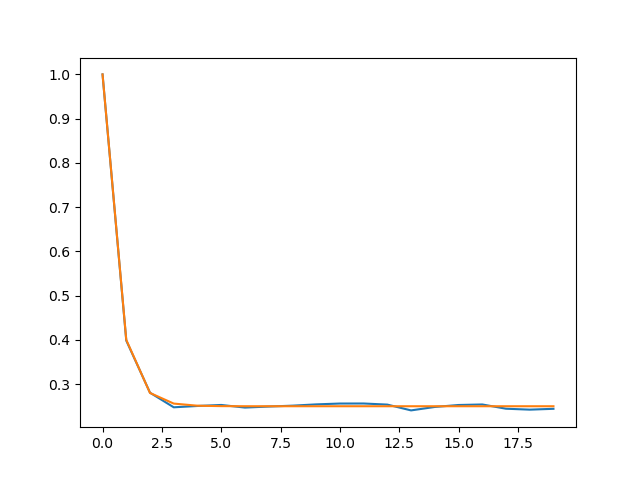
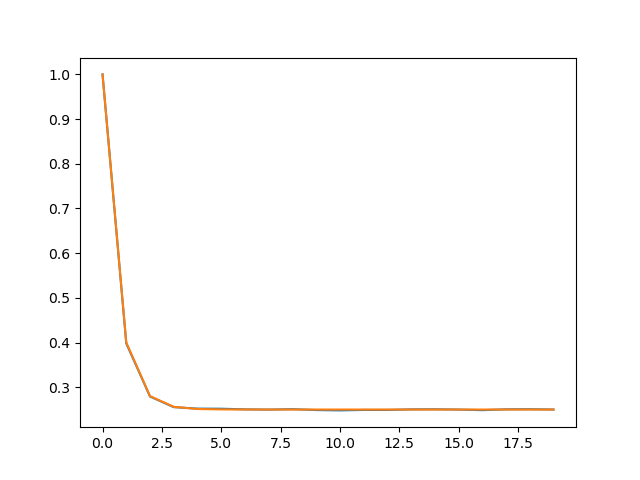
task1: recursive theoretical curve

diff --git a/task1/task1.py b/task1/task1.py
@@ -3,6 +3,22 @@ from matplotlib import pyplot
 import numpy as np
 
 
+def recursive_probably(p_matrix, previous_probably, count_t):
+    if count_t == 0:
+        return previous_probably
+    current_probably = recursive_probably(p_matrix, previous_probably, count_t - 1).dot(p_matrix)
+    return current_probably
+
+
+def get_p_t_recursive(p_matrix, start_state, count_t):
+    result = np.zeros(count_t)
+    states = np.zeros(2)
+    states[start_state] = 1
+    for i in range(count_t):
+        result[i] = recursive_probably(p_matrix, states, i)[start_state]
+    return result
+
+
 def get_p_t_th(p_matrix, start_state, count_t):
     result = np.zeros(count_t)
     states = np.zeros(2)
@@ -34,12 +50,19 @@ if __name__ == '__main__':
     P = np.array([[0.8, 0.2],
                   [0.6, 0.4]])
     my_start_state = 1
-    N = 10000
+    N = 100000
     T = 20
 
     p_t = get_p_t(P, my_start_state, N, T)
     p_t_th = get_p_t_th(P, my_start_state, T)
+    p_t_rec = get_p_t_recursive(P, my_start_state, T)
 
     pyplot.plot(range(T), p_t)
     pyplot.plot(range(T), p_t_th)
     pyplot.savefig("result.png")
+
+    pyplot.clf()
+
+    pyplot.plot(range(T), p_t)
+    pyplot.plot(range(T), p_t_rec, "r")
+    pyplot.savefig("result_rec.png")
